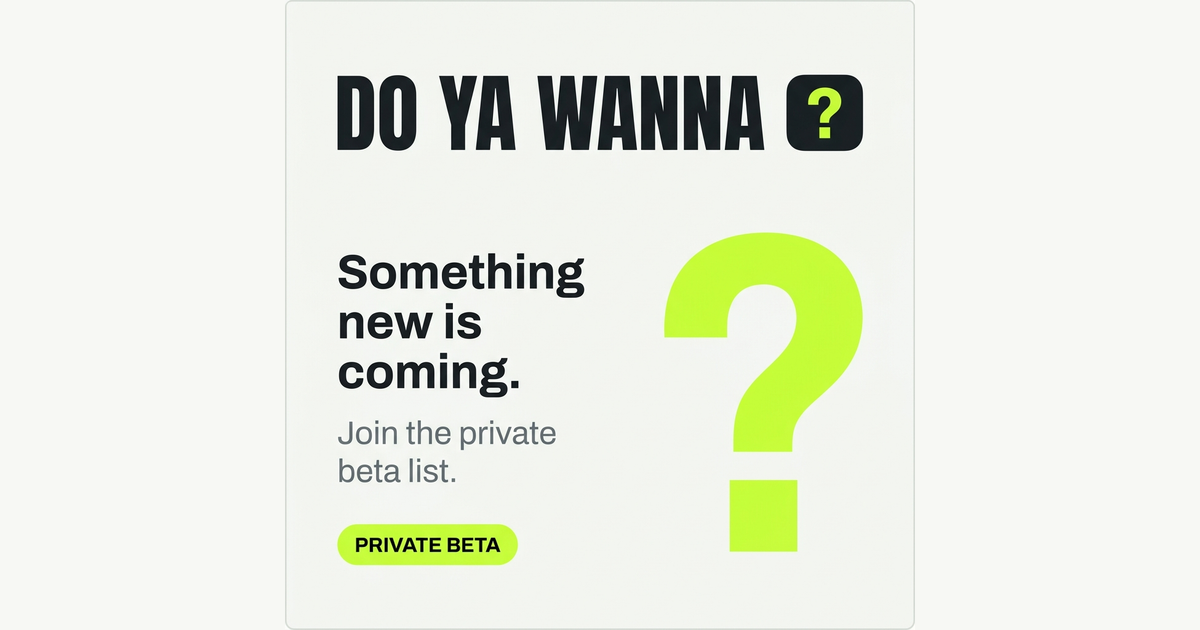
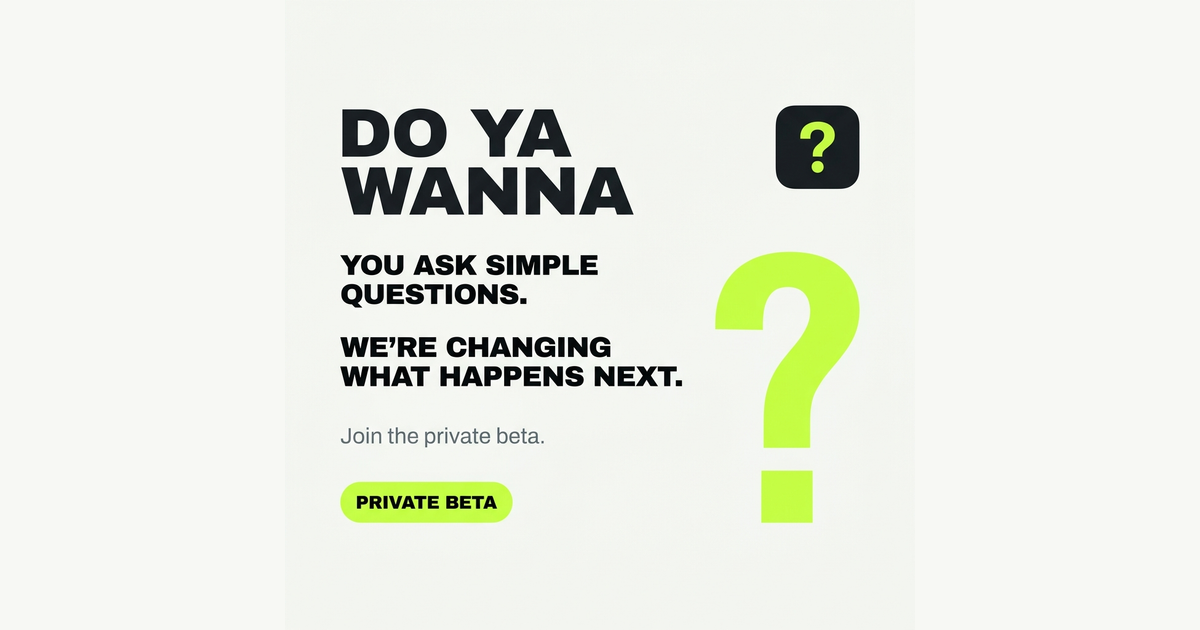
Messaging update: plural simple questions throughout
Hero:
- H1: 'You ask simple questions. We're changing what happens next.'
- Body: 'Simple questions are part of everyday life. Get ready for simple
  replies—and something completely new. Join the private beta list and
  be among the first to know.'

FourWords section:
- H2: 'Simple questions, every day.'
- Intro: 'Get ready for simple replies—and something completely new.'
- Third card body: 'We're making simple questions part of something new.'

WhyThis section:
- Body: 'We noticed something about the simple questions people ask every day.'

Metadata (layout.tsx):
- Title: 'Do Ya Wanna? — We're Changing What Happens Next.'
- SEO desc: 'You ask simple questions every day. We're creating something
  new to make what happens next a whole lot simpler.'
- Social desc: 'You ask simple questions every day. We're changing what
  happens next. Join the private beta.'
- Image alt updated to match

OG image:
- Updated to 'YOU ASK SIMPLE QUESTIONS. WE'RE CHANGING WHAT HAPPENS NEXT.'
- Resized to verified 1200x630 PNG

Audit: zero occurrences of 'You already ask it', 'simplest question',
'four familiar words', or 'a question nearly everyone' in src/

diff --git a/src/app/layout.tsx b/src/app/layout.tsx
@@ -16,14 +16,14 @@ const OG_IMAGE = `${SITE_URL}/og/do-ya-wanna-teaser-v1.png`;
 // ── Copy ──────────────────────────────────────────────────────────────────────
 // Standard SEO description (longer — used for <meta name="description">)
 const SEO_DESCRIPTION =
-  "The simplest question in the world is becoming something completely new. Join the private beta list and be among the first to find out.";
+  "You ask simple questions every day. We're creating something new to make what happens next a whole lot simpler.";
 
 // Social description — ≤125 characters, used for og:description and twitter:description
 const SOCIAL_DESCRIPTION =
-  "Four familiar words are becoming something completely new. Join the private beta list and be among the first to know.";
+  "You ask simple questions every day. We're changing what happens next. Join the private beta.";
 
-const TITLE = "Do Ya Wanna? — You already ask it.";
-const IMAGE_ALT = "Do Ya Wanna? — Something new is coming.";
+const TITLE = "Do Ya Wanna? — We're Changing What Happens Next.";
+const IMAGE_ALT = "Do Ya Wanna? — We're changing what happens next.";
 
 // ── Metadata export ───────────────────────────────────────────────────────────
 export const metadata: Metadata = {

diff --git a/src/components/ThreeWays.tsx b/src/components/ThreeWays.tsx
@@ -13,7 +13,7 @@ const CARDS = [
   },
   {
     tag: "NOW WATCH WHAT HAPPENS",
-    body: "We're turning four familiar words into something new.",
+    body: "We're making simple questions part of something new.",
   },
 ];
 
@@ -54,7 +54,7 @@ export default function FourWords() {
             letterSpacing: "-0.5px",
           }}
         >
-          You already know the question.
+          Simple questions, every day.
         </h2>
         <p
           style={{
@@ -65,9 +65,9 @@ export default function FourWords() {
             maxWidth: "56ch",
           }}
         >
-          You&apos;ve said it. You&apos;ve texted it. You&apos;ve heard it more
-          times than you can count. Now those four familiar words are about to
-          become something entirely new.
+          You&apos;ve asked them. You&apos;ve answered them. You ask simple
+          questions every single day. Get ready for simple replies—and
+          something completely new.
         </p>
 
         <div

diff --git a/src/components/Hero.tsx b/src/components/Hero.tsx
@@ -149,7 +149,7 @@ export default function Hero() {
             textWrap: "pretty",
           } as React.CSSProperties}
         >
-          You already ask it. We&apos;re changing what happens next.
+          You ask simple questions. We&apos;re changing what happens next.
         </h1>
 
         <p
@@ -161,8 +161,9 @@ export default function Hero() {
             maxWidth: "46ch",
           }}
         >
-          The simplest question in the world is becoming something completely
-          new. Join the private beta list and be among the first to find out.
+          Simple questions are part of everyday life. Get ready for simple
+          replies—and something completely new. Join the private beta list and
+          be among the first to know.
         </p>
 
         {/* ── Form card ── */}

diff --git a/src/components/Problem.tsx b/src/components/Problem.tsx
@@ -52,9 +52,9 @@ export default function WhyThis() {
             maxWidth: "46ch",
           }}
         >
-          We noticed something about a question nearly everyone asks. It was
-          simple, familiar, and far more powerful than it looked. So we started
-          building.
+          We noticed something about the simple questions people ask every day.
+          They were familiar, effortless, and far more powerful than they looked.
+          So we started building.
         </p>
       </div>
 
